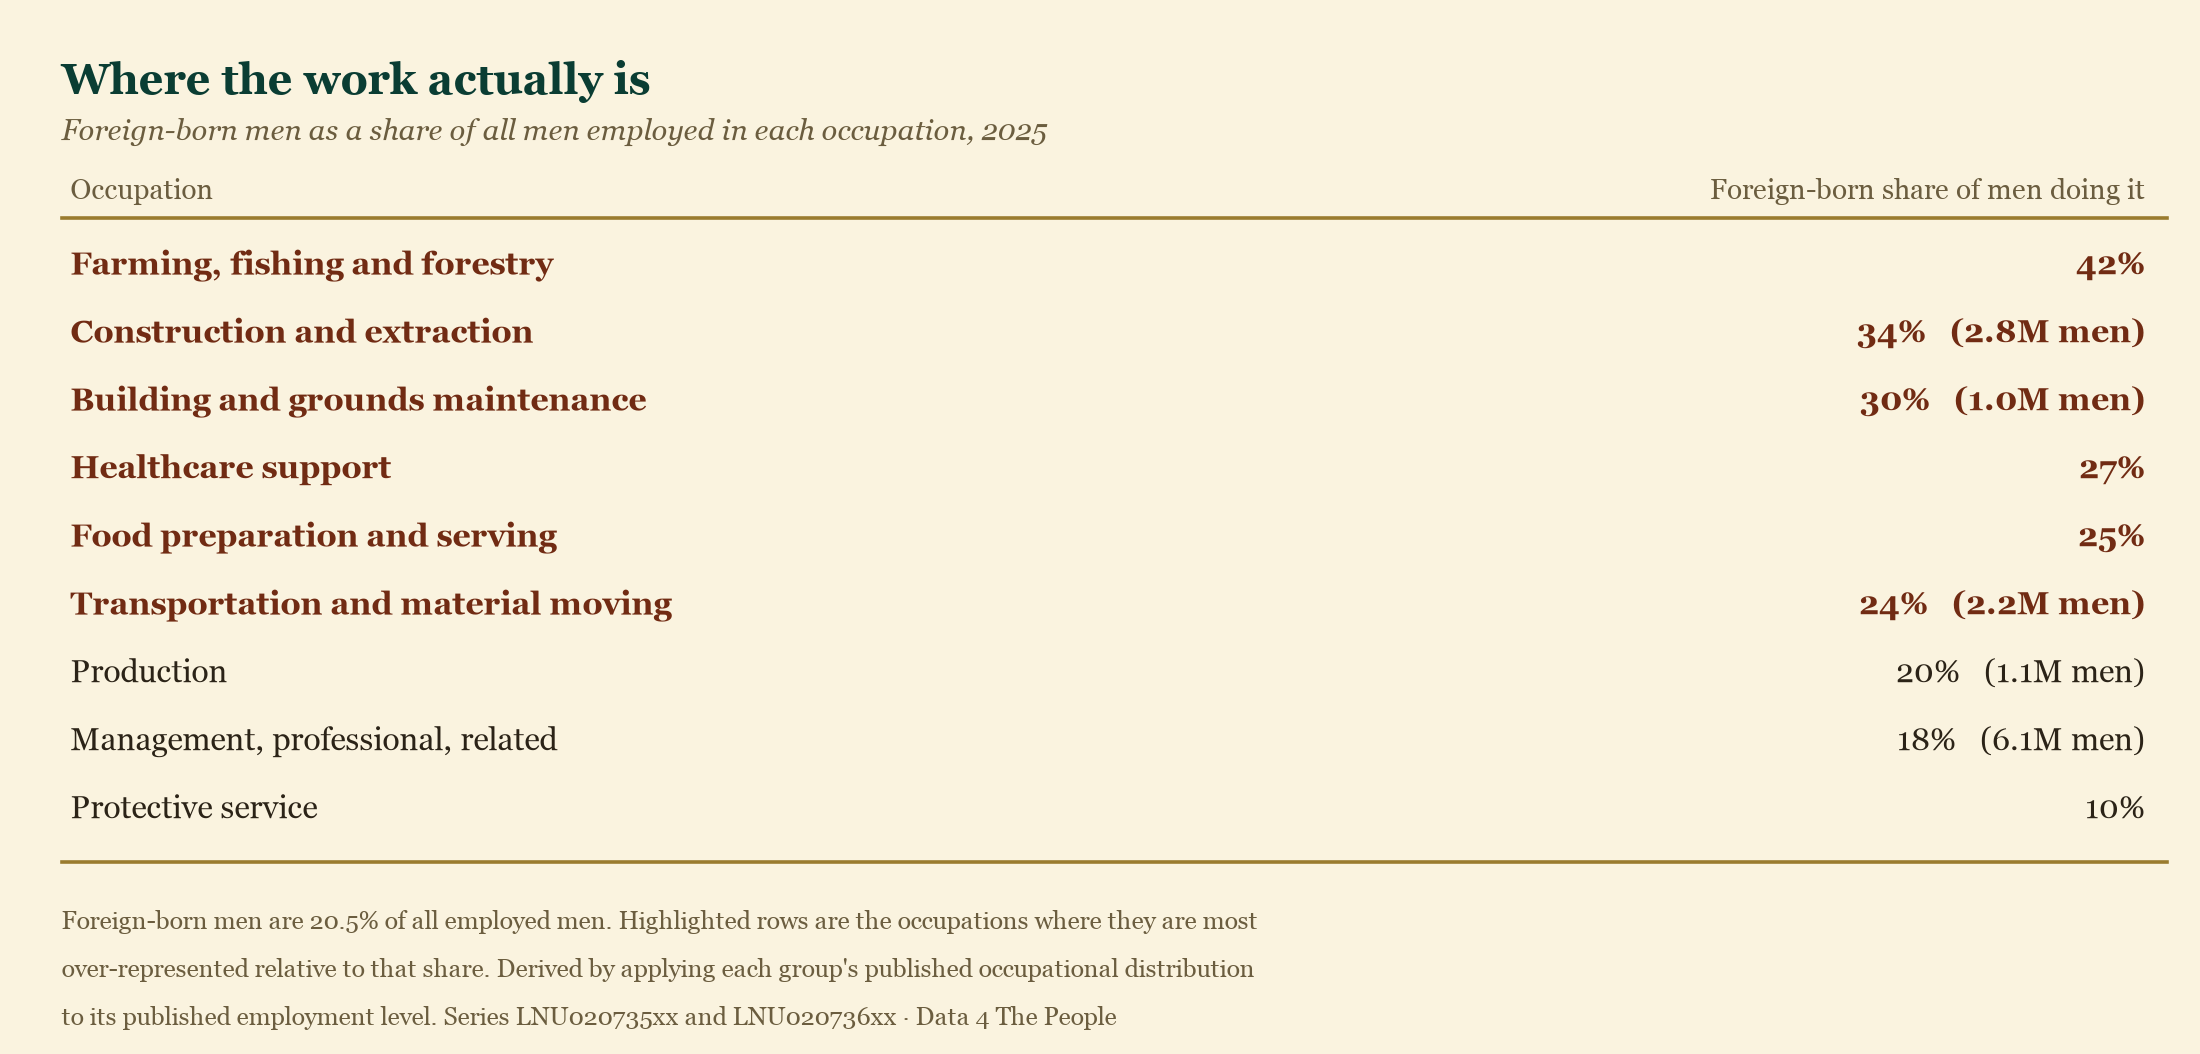
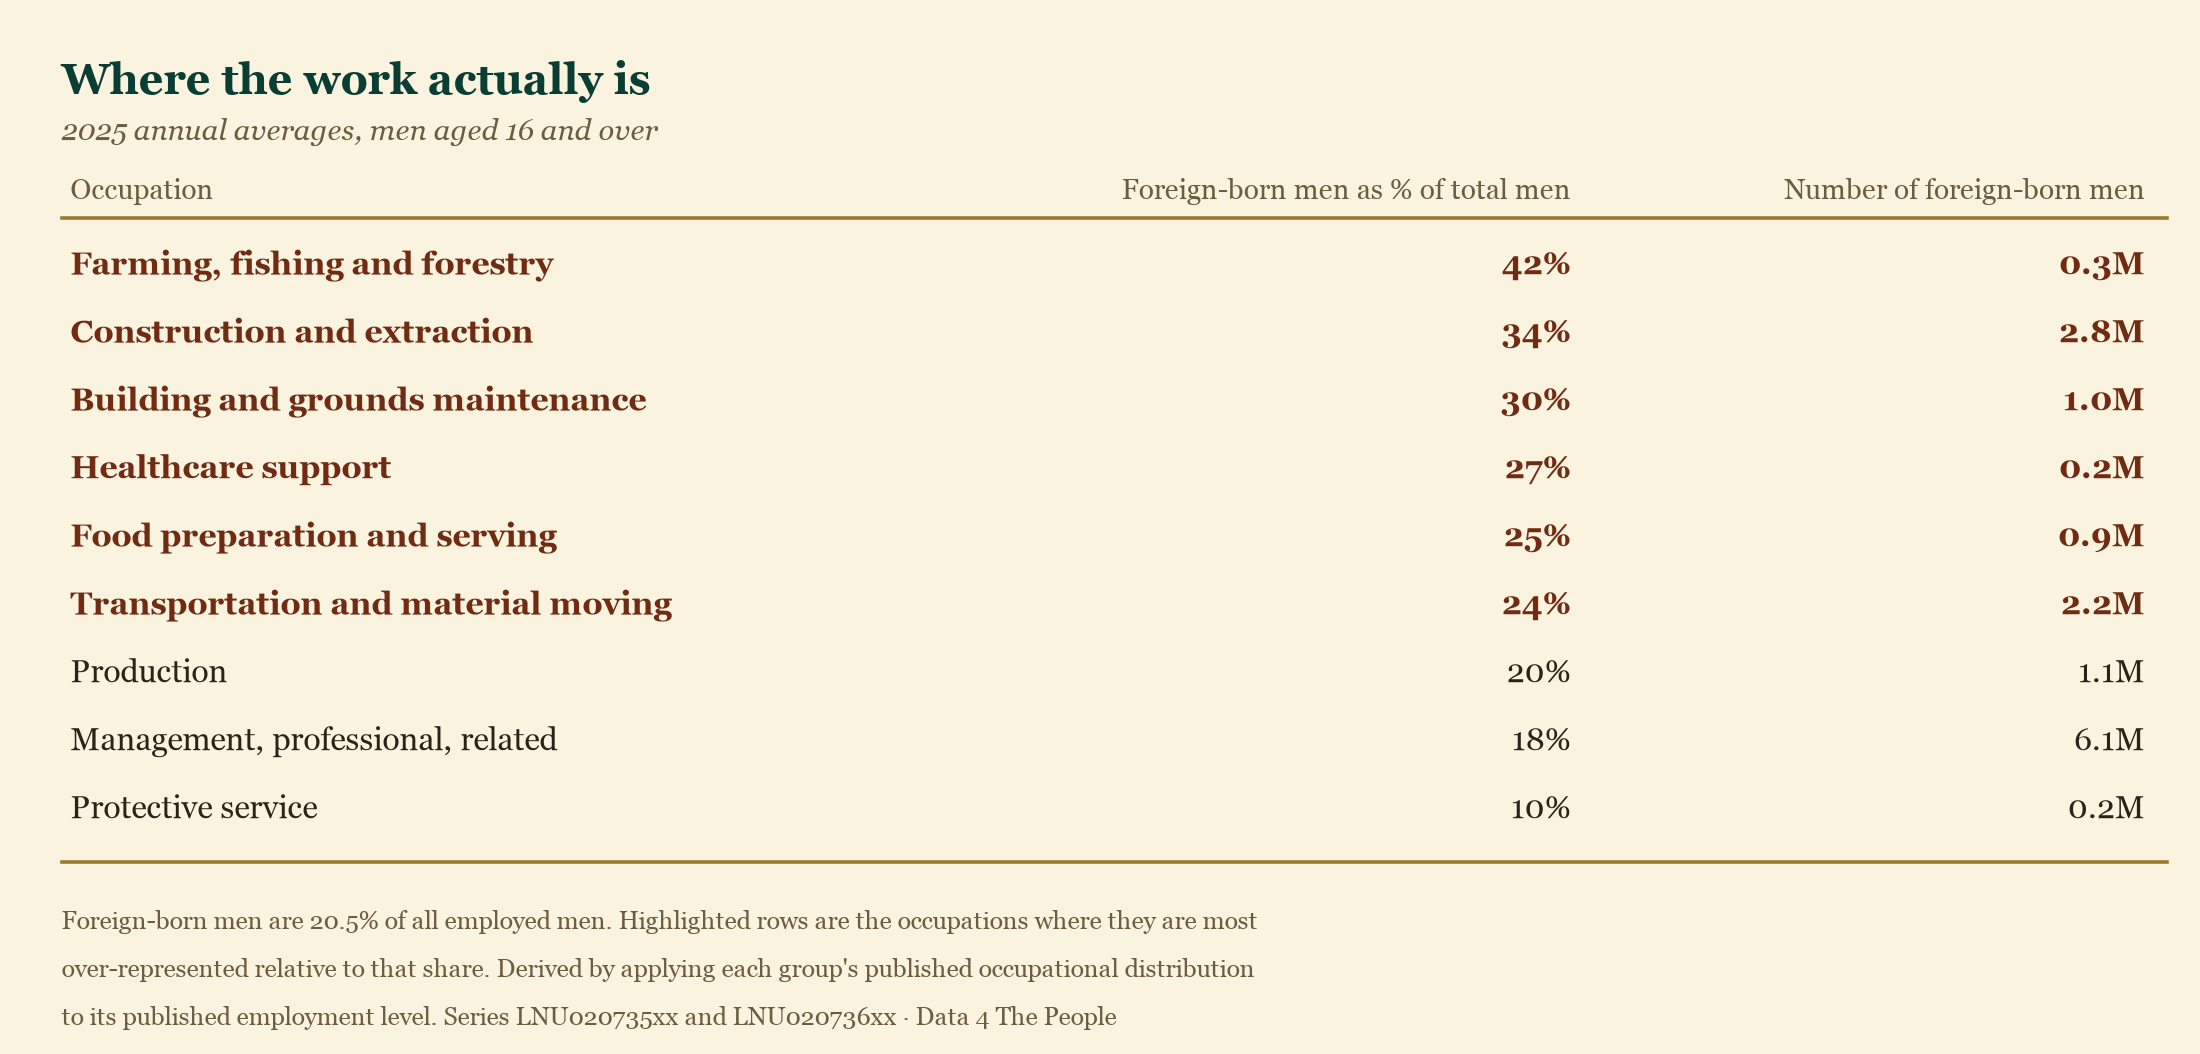
Make the occupation table's columns say what they measure
The headcount appeared only on rows above a million men, which from the reader's
side is not a rule but an oversight -- and it hid the row where share and scale
disagree most. Foreign-born men are 18% of management and professional work,
their lowest share outside protective service, and 6.1 million men, the largest
headcount in the table. Every row now carries both.

Relabels the columns. "Share of men doing it" left the denominator to be
guessed, which is the one thing that column has to be unambiguous about; it now
reads "Foreign-born men as % of total men" against "Number of foreign-born men",
so the two are plainly a percentage and a headcount of the same quantity. The
subtitle stops repeating the column header and states the universe instead --
2025 annual averages, men aged 16 and over -- which was not written down
anywhere before.

Also hedges both halves of the Springfield displacement sentence symmetrically,
at the author's request: likely some displaced, probably some saved. Neither is
measured at Springfield level, and matching the confidence stops the paragraph
asserting the convenient half and hedging the inconvenient one.

Claude-Session: https://claude.ai/code/session_01QLofYkjyLJDgoe1nTb8cw4

diff --git a/analysis/foreign-born-men/make_charts.py b/analysis/foreign-born-men/make_charts.py
@@ -676,18 +676,19 @@ def table_occupations(w):
     share = 100 * fb / (fb + nb)
     body, hi = [], []
     for i, (name, _fp, _np, fw, sh) in enumerate(rows):
-        extra = f"   ({fw/1000:.1f}M men)" if fw > 1000 else ""
-        body.append([name, f"{sh:.0f}%{extra}"])
+        # Every row carries its headcount. A threshold that shows the count on
+        # some rows and not others reads as an oversight rather than a rule.
+        body.append([name, f"{sh:.0f}%", f"{fw/1000:.1f}M"])
         if sh > share + 3:
             hi.append(i)
     render_table(
         OUT / "table_occupations.png",
         "Where the work actually is",
-        f"Foreign-born men as a share of all men employed in each occupation, "
-        f"{OCC_YEAR}",
+        f"{OCC_YEAR} annual averages, men aged 16 and over",
         None,
-        ["Occupation", "Foreign-born share of men doing it"],
-        body, ["l", "r"], [2.0, 1.5],
+        ["Occupation", "Foreign-born men as % of total men",
+         "Number of foreign-born men"],
+        body, ["l", "r", "r"], [1.7, 1.5, 1.2],
         [f"Foreign-born men are {share:.1f}% of all employed men. Highlighted "
          "rows are the occupations where they are most",
          "over-represented relative to that share. Derived by applying each "

diff --git a/analysis/foreign-born-men/POST.md b/analysis/foreign-born-men/POST.md
@@ -115,7 +115,7 @@ They took them. The low-paid, physically hard, undesirable ones.
 
 I am not going to tell you they rescued Springfield manufacturing. Employment there had bottomed out a decade earlier, and the 2021–2023 recovery happened in factory towns that saw no immigration at all. What I will tell you is that it peaked in 2023 and has fallen every year since – to **6,000 in 2026, the lowest in the whole series**.
 
-Now consider who is more likely to be the shift supervisor. The plant manager. Immigrants are not taking those jobs; native-born workers are. So did Haitian workers displace native-born workers in Springfield? Sure – some, here and there (and again, blame capitalism, not the immigrants). But they also saved jobs. The better paid ones, held by the managers who would have been out of work if their employer had shut the doors.
+Now consider who is more likely to be the shift supervisor. The plant manager. Immigrants are not taking those jobs; native-born workers are. So did Haitian workers displace native-born workers in Springfield? Sure – likely some, here and there (and again, blame capitalism, not the immigrants). But they also probably saved jobs. The better paid ones, held by the managers who would have been out of work if their employer had shut the doors.
 
 ### This isn't just my hypothesis
 
